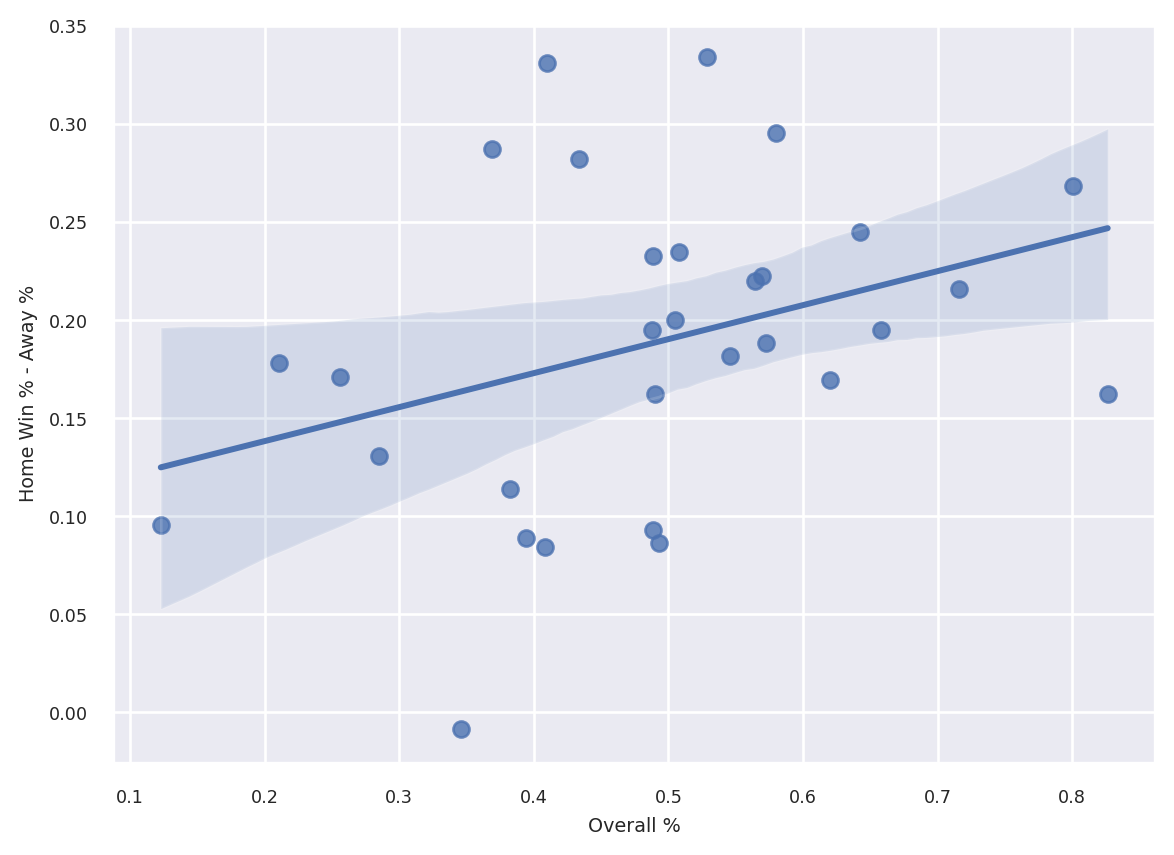
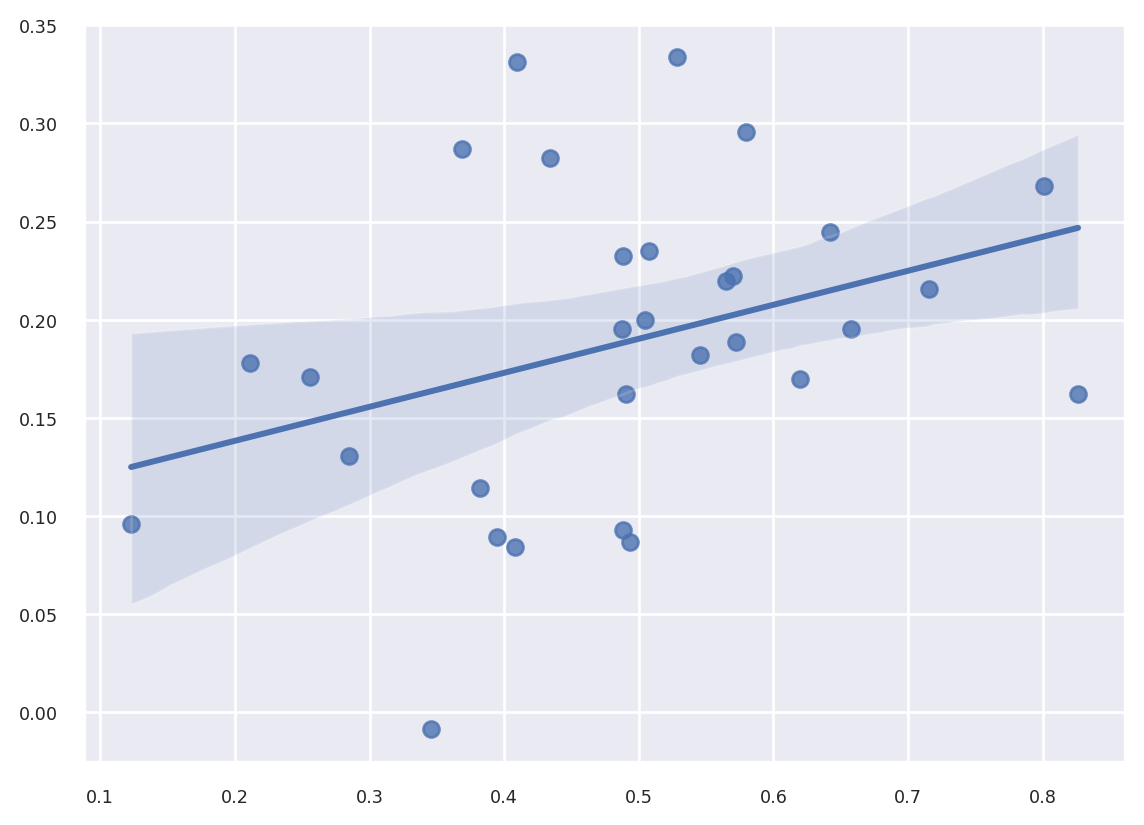
Built site for gh-pages

diff --git a/tidy.html b/tidy.html
@@ -845,7 +845,7 @@ Note
 <div class="sourceCode cell-code" id="cb11"><pre class="sourceCode python code-with-copy"><code class="sourceCode python"><span id="cb11-1"><a href="#cb11-1" aria-hidden="true" tabindex="-1"></a><span class="im">import</span> seaborn <span class="im">as</span> sns</span>
 <span id="cb11-2"><a href="#cb11-2" aria-hidden="true" tabindex="-1"></a>sns.set_theme(font_scale<span class="op">=</span><span class="fl">0.6</span>)</span>
 <span id="cb11-3"><a href="#cb11-3" aria-hidden="true" tabindex="-1"></a>sns.catplot(</span>
-<span id="cb11-4"><a href="#cb11-4" aria-hidden="true" tabindex="-1"></a>    tidy_pl.to_pandas(),</span>
+<span id="cb11-4"><a href="#cb11-4" aria-hidden="true" tabindex="-1"></a>    tidy_pl,</span>
 <span id="cb11-5"><a href="#cb11-5" aria-hidden="true" tabindex="-1"></a>    x<span class="op">=</span><span class="st">"variable"</span>,</span>
 <span id="cb11-6"><a href="#cb11-6" aria-hidden="true" tabindex="-1"></a>    y<span class="op">=</span><span class="st">"rest"</span>,</span>
 <span id="cb11-7"><a href="#cb11-7" aria-hidden="true" tabindex="-1"></a>    col<span class="op">=</span><span class="st">"team"</span>,</span>
@@ -854,7 +854,7 @@ Note
 <span id="cb11-10"><a href="#cb11-10" aria-hidden="true" tabindex="-1"></a>    height<span class="op">=</span><span class="fl">1.5</span>,</span>
 <span id="cb11-11"><a href="#cb11-11" aria-hidden="true" tabindex="-1"></a>)</span></code><button title="Copy to Clipboard" class="code-copy-button"><i class="bi"></i></button></pre></div>
 <div class="cell-output cell-output-display" data-execution_count="11">
-<pre><code>&lt;seaborn.axisgrid.FacetGrid at 0x7f331e88bf10&gt;</code></pre>
+<pre><code>&lt;seaborn.axisgrid.FacetGrid at 0x7fd14ed3fd90&gt;</code></pre>
 </div>
 <div class="cell-output cell-output-display">
 <p><img src="tidy_files/figure-html/cell-12-output-2.png" width="729" height="864"></p>
@@ -920,7 +920,7 @@ Note
 <span id="cb17-3"><a href="#cb17-3" aria-hidden="true" tabindex="-1"></a>sns.barplot(</span>
 <span id="cb17-4"><a href="#cb17-4" aria-hidden="true" tabindex="-1"></a>    x<span class="op">=</span><span class="st">"rest_spread"</span>,</span>
 <span id="cb17-5"><a href="#cb17-5" aria-hidden="true" tabindex="-1"></a>    y<span class="op">=</span><span class="st">"home_win"</span>,</span>
-<span id="cb17-6"><a href="#cb17-6" aria-hidden="true" tabindex="-1"></a>    data<span class="op">=</span>joined_pl.<span class="bu">filter</span>(pl.col(<span class="st">"rest_spread"</span>).is_between(<span class="op">-</span><span class="dv">3</span>, <span class="dv">3</span>, closed<span class="op">=</span><span class="st">"both"</span>)).to_pandas(),</span>
+<span id="cb17-6"><a href="#cb17-6" aria-hidden="true" tabindex="-1"></a>    data<span class="op">=</span>joined_pl.<span class="bu">filter</span>(pl.col(<span class="st">"rest_spread"</span>).is_between(<span class="op">-</span><span class="dv">3</span>, <span class="dv">3</span>, closed<span class="op">=</span><span class="st">"both"</span>)),</span>
 <span id="cb17-7"><a href="#cb17-7" aria-hidden="true" tabindex="-1"></a>    color<span class="op">=</span><span class="st">"#4c72b0"</span>,</span>
 <span id="cb17-8"><a href="#cb17-8" aria-hidden="true" tabindex="-1"></a>    ax<span class="op">=</span>ax,</span>
 <span id="cb17-9"><a href="#cb17-9" aria-hidden="true" tabindex="-1"></a>)</span></code><button title="Copy to Clipboard" class="code-copy-button"><i class="bi"></i></button></pre></div>
@@ -1257,14 +1257,14 @@ Name: rest, Length: 418, dtype: Float64</code></pre>
 <section id="some-visualisations" class="level2" data-number="4.7">
 <h2 data-number="4.7" class="anchored" data-anchor-id="some-visualisations"><span class="header-section-number">4.7</span> Some visualisations</h2>
 <div class="cell" data-execution_count="24">
-<div class="sourceCode cell-code" id="cb32"><pre class="sourceCode python code-with-copy"><code class="sourceCode python"><span id="cb32-1"><a href="#cb32-1" aria-hidden="true" tabindex="-1"></a>g <span class="op">=</span> sns.FacetGrid(wins_pl.to_pandas(), hue<span class="op">=</span><span class="st">"team"</span>, aspect<span class="op">=</span><span class="fl">0.8</span>, palette<span class="op">=</span>[<span class="st">"k"</span>], height<span class="op">=</span><span class="dv">5</span>)</span>
+<div class="sourceCode cell-code" id="cb32"><pre class="sourceCode python code-with-copy"><code class="sourceCode python"><span id="cb32-1"><a href="#cb32-1" aria-hidden="true" tabindex="-1"></a>g <span class="op">=</span> sns.FacetGrid(wins_pl, hue<span class="op">=</span><span class="st">"team"</span>, aspect<span class="op">=</span><span class="fl">0.8</span>, palette<span class="op">=</span>[<span class="st">"k"</span>], height<span class="op">=</span><span class="dv">5</span>)</span>
 <span id="cb32-2"><a href="#cb32-2" aria-hidden="true" tabindex="-1"></a>g.<span class="bu">map</span>(</span>
 <span id="cb32-3"><a href="#cb32-3" aria-hidden="true" tabindex="-1"></a>    sns.pointplot,</span>
 <span id="cb32-4"><a href="#cb32-4" aria-hidden="true" tabindex="-1"></a>    <span class="st">"is_home"</span>,</span>
 <span id="cb32-5"><a href="#cb32-5" aria-hidden="true" tabindex="-1"></a>    <span class="st">"win_pct"</span>,</span>
 <span id="cb32-6"><a href="#cb32-6" aria-hidden="true" tabindex="-1"></a>    order<span class="op">=</span>[<span class="st">"away_team"</span>, <span class="st">"home_team"</span>]).<span class="bu">set</span>(ylim<span class="op">=</span>(<span class="dv">0</span>, <span class="dv">1</span>))</span></code><button title="Copy to Clipboard" class="code-copy-button"><i class="bi"></i></button></pre></div>
 <div class="cell-output cell-output-display" data-execution_count="24">
-<pre><code>&lt;seaborn.axisgrid.FacetGrid at 0x7f3316733610&gt;</code></pre>
+<pre><code>&lt;seaborn.axisgrid.FacetGrid at 0x7fd136348790&gt;</code></pre>
 </div>
 <div class="cell-output cell-output-display">
 <p><img src="tidy_files/figure-html/cell-25-output-2.png" width="383" height="483"></p>
@@ -1272,7 +1272,7 @@ Name: rest, Length: 418, dtype: Float64</code></pre>
 </div>
 <div class="cell" data-execution_count="25">
 <div class="sourceCode cell-code" id="cb34"><pre class="sourceCode python code-with-copy"><code class="sourceCode python"><span id="cb34-1"><a href="#cb34-1" aria-hidden="true" tabindex="-1"></a>sns.catplot(</span>
-<span id="cb34-2"><a href="#cb34-2" aria-hidden="true" tabindex="-1"></a>    wins_pl.to_pandas(),</span>
+<span id="cb34-2"><a href="#cb34-2" aria-hidden="true" tabindex="-1"></a>    wins_pl,</span>
 <span id="cb34-3"><a href="#cb34-3" aria-hidden="true" tabindex="-1"></a>    x<span class="op">=</span><span class="st">"is_home"</span>,</span>
 <span id="cb34-4"><a href="#cb34-4" aria-hidden="true" tabindex="-1"></a>    y<span class="op">=</span><span class="st">"win_pct"</span>,</span>
 <span id="cb34-5"><a href="#cb34-5" aria-hidden="true" tabindex="-1"></a>    col<span class="op">=</span><span class="st">"team"</span>,</span>
@@ -1282,7 +1282,7 @@ Name: rest, Length: 418, dtype: Float64</code></pre>
 <span id="cb34-9"><a href="#cb34-9" aria-hidden="true" tabindex="-1"></a>    height<span class="op">=</span><span class="fl">1.5</span>,</span>
 <span id="cb34-10"><a href="#cb34-10" aria-hidden="true" tabindex="-1"></a>)</span></code><button title="Copy to Clipboard" class="code-copy-button"><i class="bi"></i></button></pre></div>
 <div class="cell-output cell-output-display" data-execution_count="25">
-<pre><code>&lt;seaborn.axisgrid.FacetGrid at 0x7f331679df10&gt;</code></pre>
+<pre><code>&lt;seaborn.axisgrid.FacetGrid at 0x7fd136126490&gt;</code></pre>
 </div>
 <div class="cell-output cell-output-display">
 <p><img src="tidy_files/figure-html/cell-26-output-2.png" width="862" height="651"></p>
@@ -1356,7 +1356,7 @@ Length: 30, dtype: float64</code></pre>
 <div class="tab-content">
 <div id="tabset-11-1" class="tab-pane active" role="tabpanel" aria-labelledby="tabset-11-1-tab">
 <div class="cell" data-execution_count="29">
-<div class="sourceCode cell-code" id="cb41"><pre class="sourceCode python code-with-copy"><code class="sourceCode python"><span id="cb41-1"><a href="#cb41-1" aria-hidden="true" tabindex="-1"></a>(</span>
+<div class="sourceCode cell-code" id="cb41"><pre class="sourceCode python code-with-copy"><code class="sourceCode python"><span id="cb41-1"><a href="#cb41-1" aria-hidden="true" tabindex="-1"></a>wins_to_plot_pl <span class="op">=</span> (</span>
 <span id="cb41-2"><a href="#cb41-2" aria-hidden="true" tabindex="-1"></a>    wins_pl.pivot(index<span class="op">=</span><span class="st">"team"</span>, columns<span class="op">=</span><span class="st">"is_home"</span>, values<span class="op">=</span><span class="st">"win_pct"</span>)</span>
 <span id="cb41-3"><a href="#cb41-3" aria-hidden="true" tabindex="-1"></a>    .with_columns(</span>
 <span id="cb41-4"><a href="#cb41-4" aria-hidden="true" tabindex="-1"></a>        [</span>
@@ -1364,27 +1364,26 @@ Length: 30, dtype: float64</code></pre>
 <span id="cb41-6"><a href="#cb41-6" aria-hidden="true" tabindex="-1"></a>            (pl.col(<span class="st">"home_team"</span>).alias(<span class="st">"Overall %"</span>) <span class="op">+</span> pl.col(<span class="st">"away_team"</span>)) <span class="op">/</span> <span class="dv">2</span>,</span>
 <span id="cb41-7"><a href="#cb41-7" aria-hidden="true" tabindex="-1"></a>        ]</span>
 <span id="cb41-8"><a href="#cb41-8" aria-hidden="true" tabindex="-1"></a>    )</span>
-<span id="cb41-9"><a href="#cb41-9" aria-hidden="true" tabindex="-1"></a>    .to_pandas()</span>
-<span id="cb41-10"><a href="#cb41-10" aria-hidden="true" tabindex="-1"></a>    .pipe((sns.regplot, <span class="st">"data"</span>), x<span class="op">=</span><span class="st">"Overall %"</span>, y<span class="op">=</span><span class="st">"Home Win % - Away %"</span>)</span>
-<span id="cb41-11"><a href="#cb41-11" aria-hidden="true" tabindex="-1"></a>)</span></code><button title="Copy to Clipboard" class="code-copy-button"><i class="bi"></i></button></pre></div>
+<span id="cb41-9"><a href="#cb41-9" aria-hidden="true" tabindex="-1"></a>)</span>
+<span id="cb41-10"><a href="#cb41-10" aria-hidden="true" tabindex="-1"></a>sns.regplot(data<span class="op">=</span>wins_to_plot_pl, x<span class="op">=</span><span class="st">'Overall %'</span>, y<span class="op">=</span><span class="st">'Home Win % - Away %'</span>)</span></code><button title="Copy to Clipboard" class="code-copy-button"><i class="bi"></i></button></pre></div>
 <div class="cell-output cell-output-display" data-execution_count="29">
-<pre><code>&lt;Axes: xlabel='Overall %', ylabel='Home Win % - Away %'&gt;</code></pre>
+<pre><code>&lt;Axes: &gt;</code></pre>
 </div>
 <div class="cell-output cell-output-display">
-<p><img src="tidy_files/figure-html/cell-30-output-2.png" width="587" height="428"></p>
+<p><img src="tidy_files/figure-html/cell-30-output-2.png" width="572" height="413"></p>
 </div>
 </div>
 </div>
 <div id="tabset-11-2" class="tab-pane" role="tabpanel" aria-labelledby="tabset-11-2-tab">
 <div class="cell" data-execution_count="30">
-<div class="sourceCode cell-code" id="cb43"><pre class="sourceCode python code-with-copy"><code class="sourceCode python"><span id="cb43-1"><a href="#cb43-1" aria-hidden="true" tabindex="-1"></a>(</span>
+<div class="sourceCode cell-code" id="cb43"><pre class="sourceCode python code-with-copy"><code class="sourceCode python"><span id="cb43-1"><a href="#cb43-1" aria-hidden="true" tabindex="-1"></a>wins_to_plot_pd <span class="op">=</span> (</span>
 <span id="cb43-2"><a href="#cb43-2" aria-hidden="true" tabindex="-1"></a>    wins_pd</span>
 <span id="cb43-3"><a href="#cb43-3" aria-hidden="true" tabindex="-1"></a>    [<span class="st">"win_pct"</span>]</span>
 <span id="cb43-4"><a href="#cb43-4" aria-hidden="true" tabindex="-1"></a>    .unstack()</span>
 <span id="cb43-5"><a href="#cb43-5" aria-hidden="true" tabindex="-1"></a>    .assign(<span class="op">**</span>{<span class="st">'Home Win % - Away %'</span>: <span class="kw">lambda</span> x: x[<span class="st">"home_team"</span>] <span class="op">-</span> x[<span class="st">"away_team"</span>],</span>
 <span id="cb43-6"><a href="#cb43-6" aria-hidden="true" tabindex="-1"></a>               <span class="st">'Overall %'</span>: <span class="kw">lambda</span> x: (x[<span class="st">"home_team"</span>] <span class="op">+</span> x[<span class="st">"away_team"</span>]) <span class="op">/</span> <span class="dv">2</span>})</span>
-<span id="cb43-7"><a href="#cb43-7" aria-hidden="true" tabindex="-1"></a>     .pipe((sns.regplot, <span class="st">'data'</span>), x<span class="op">=</span><span class="st">'Overall %'</span>, y<span class="op">=</span><span class="st">'Home Win % - Away %'</span>)</span>
-<span id="cb43-8"><a href="#cb43-8" aria-hidden="true" tabindex="-1"></a>)</span></code><button title="Copy to Clipboard" class="code-copy-button"><i class="bi"></i></button></pre></div>
+<span id="cb43-7"><a href="#cb43-7" aria-hidden="true" tabindex="-1"></a>)</span>
+<span id="cb43-8"><a href="#cb43-8" aria-hidden="true" tabindex="-1"></a>sns.regplot(data<span class="op">=</span>wins_to_plot_pd, x<span class="op">=</span><span class="st">'Overall %'</span>, y<span class="op">=</span><span class="st">'Home Win % - Away %'</span>)</span></code><button title="Copy to Clipboard" class="code-copy-button"><i class="bi"></i></button></pre></div>
 <div class="cell-output cell-output-display" data-execution_count="30">
 <pre><code>&lt;Axes: xlabel='Overall %', ylabel='Home Win % - Away %'&gt;</code></pre>
 </div>
@@ -1594,10 +1593,10 @@ Length: 30, dtype: float64</code></pre>
   <th>Method:</th>                 <td>MLE</td>       <th>  Df Model:          </th>  <td>     4</td>  
 </tr>
 <tr>
-  <th>Date:</th>            <td>Thu, 19 Oct 2023</td> <th>  Pseudo R-squ.:     </th>  <td>0.1777</td>  
+  <th>Date:</th>            <td>Fri, 03 Nov 2023</td> <th>  Pseudo R-squ.:     </th>  <td>0.1777</td>  
 </tr>
 <tr>
-  <th>Time:</th>                <td>17:04:38</td>     <th>  Log-Likelihood:    </th> <td> -720.68</td> 
+  <th>Time:</th>                <td>01:52:21</td>     <th>  Log-Likelihood:    </th> <td> -720.68</td> 
 </tr>
 <tr>
   <th>converged:</th>             <td>True</td>       <th>  LL-Null:           </th> <td> -876.38</td> 

diff --git a/performance.html b/performance.html
@@ -739,8 +739,8 @@ Tip
 <span id="cb7-21"><a href="#cb7-21" aria-hidden="true" tabindex="-1"></a>    .collect()</span>
 <span id="cb7-22"><a href="#cb7-22" aria-hidden="true" tabindex="-1"></a>)</span></code><button title="Copy to Clipboard" class="code-copy-button"><i class="bi"></i></button></pre></div>
 <div class="cell-output cell-output-stdout">
-<pre><code>CPU times: user 119 ms, sys: 28.8 ms, total: 148 ms
-Wall time: 34.1 ms</code></pre>
+<pre><code>CPU times: user 82.6 ms, sys: 29.6 ms, total: 112 ms
+Wall time: 34.8 ms</code></pre>
 </div>
 </div>
 </div>
@@ -762,8 +762,8 @@ Wall time: 34.1 ms</code></pre>
 <span id="cb9-14"><a href="#cb9-14" aria-hidden="true" tabindex="-1"></a>    .rename(columns<span class="op">=</span>{<span class="st">"↓OVA"</span>: <span class="st">"OVA"</span>})</span>
 <span id="cb9-15"><a href="#cb9-15" aria-hidden="true" tabindex="-1"></a>)</span></code><button title="Copy to Clipboard" class="code-copy-button"><i class="bi"></i></button></pre></div>
 <div class="cell-output cell-output-stdout">
-<pre><code>CPU times: user 6.16 s, sys: 229 ms, total: 6.39 s
-Wall time: 6.39 s</code></pre>
+<pre><code>CPU times: user 6.53 s, sys: 402 ms, total: 6.93 s
+Wall time: 6.93 s</code></pre>
 </div>
 </div>
 </div>
@@ -1027,7 +1027,7 @@ Wall time: 6.39 s</code></pre>
 <span id="cb16-8"><a href="#cb16-8" aria-hidden="true" tabindex="-1"></a>    )</span>
 <span id="cb16-9"><a href="#cb16-9" aria-hidden="true" tabindex="-1"></a>).collect()</span></code><button title="Copy to Clipboard" class="code-copy-button"><i class="bi"></i></button></pre></div>
 <div class="cell-output cell-output-stdout">
-<pre><code>3.97 s ± 43.4 ms per loop (mean ± std. dev. of 7 runs, 1 loop each)</code></pre>
+<pre><code>4.42 s ± 261 ms per loop (mean ± std. dev. of 7 runs, 1 loop each)</code></pre>
 </div>
 </div>
 <p>On my machine the NumPy version tends to be 5-20% faster than the pure Polars version:</p>
@@ -1042,7 +1042,7 @@ Wall time: 6.39 s</code></pre>
 <span id="cb18-8"><a href="#cb18-8" aria-hidden="true" tabindex="-1"></a>    )</span>
 <span id="cb18-9"><a href="#cb18-9" aria-hidden="true" tabindex="-1"></a>).collect()</span></code><button title="Copy to Clipboard" class="code-copy-button"><i class="bi"></i></button></pre></div>
 <div class="cell-output cell-output-stdout">
-<pre><code>4.97 s ± 140 ms per loop (mean ± std. dev. of 7 runs, 1 loop each)</code></pre>
+<pre><code>5.21 s ± 75.6 ms per loop (mean ± std. dev. of 7 runs, 1 loop each)</code></pre>
 </div>
 </div>
 <p>This may not be a huge performance difference, but it at least means you don’t sacrifice speed when relying on NumPy. There are some <a href="https://pola-rs.github.io/polars-book/user-guide/howcani/interop/numpy.html">gotchas</a> though so watch out for those.</p>
@@ -1057,7 +1057,7 @@ Wall time: 6.39 s</code></pre>
 <span id="cb20-7"><a href="#cb20-7" aria-hidden="true" tabindex="-1"></a>    collected[<span class="st">"LONGITUDE_right"</span>].to_numpy()</span>
 <span id="cb20-8"><a href="#cb20-8" aria-hidden="true" tabindex="-1"></a>)</span></code><button title="Copy to Clipboard" class="code-copy-button"><i class="bi"></i></button></pre></div>
 <div class="cell-output cell-output-stdout">
-<pre><code>5.54 s ± 58.5 ms per loop (mean ± std. dev. of 7 runs, 1 loop each)</code></pre>
+<pre><code>5.63 s ± 33.8 ms per loop (mean ± std. dev. of 7 runs, 1 loop each)</code></pre>
 </div>
 </div>
 </section>
@@ -1092,7 +1092,7 @@ Wall time: 6.39 s</code></pre>
 <div class="cell" data-execution_count="18">
 <div class="sourceCode cell-code" id="cb23"><pre class="sourceCode python code-with-copy"><code class="sourceCode python"><span id="cb23-1"><a href="#cb23-1" aria-hidden="true" tabindex="-1"></a><span class="op">%</span>timeit rand_df_pl.select(polars_transform())</span></code><button title="Copy to Clipboard" class="code-copy-button"><i class="bi"></i></button></pre></div>
 <div class="cell-output cell-output-stdout">
-<pre><code>2.31 s ± 215 ms per loop (mean ± std. dev. of 7 runs, 1 loop each)</code></pre>
+<pre><code>2.2 s ± 153 ms per loop (mean ± std. dev. of 7 runs, 1 loop each)</code></pre>
 </div>
 </div>
 </div>
@@ -1100,15 +1100,15 @@ Wall time: 6.39 s</code></pre>
 <div class="cell" data-execution_count="19">
 <div class="sourceCode cell-code" id="cb25"><pre class="sourceCode python code-with-copy"><code class="sourceCode python"><span id="cb25-1"><a href="#cb25-1" aria-hidden="true" tabindex="-1"></a><span class="op">%</span>timeit pandas_transform(rand_df_pd)</span></code><button title="Copy to Clipboard" class="code-copy-button"><i class="bi"></i></button></pre></div>
 <div class="cell-output cell-output-stderr">
-<pre><code>/tmp/ipykernel_30129/1003544873.py:9: FutureWarning: The provided callable &lt;function mean at 0x7fef602a4a40&gt; is currently using SeriesGroupBy.mean. In a future version of pandas, the provided callable will be used directly. To keep current behavior pass the string "mean" instead.
+<pre><code>/tmp/ipykernel_10730/1003544873.py:9: FutureWarning: The provided callable &lt;function mean at 0x7f99d02a0a40&gt; is currently using SeriesGroupBy.mean. In a future version of pandas, the provided callable will be used directly. To keep current behavior pass the string "mean" instead.
   return (v - g.transform(np.mean)) / g.transform(np.std)</code></pre>
 </div>
 <div class="cell-output cell-output-stderr">
-<pre><code>/tmp/ipykernel_30129/1003544873.py:9: FutureWarning: The provided callable &lt;function std at 0x7fef602a4c20&gt; is currently using SeriesGroupBy.std. In a future version of pandas, the provided callable will be used directly. To keep current behavior pass the string "std" instead.
+<pre><code>/tmp/ipykernel_10730/1003544873.py:9: FutureWarning: The provided callable &lt;function std at 0x7f99d02a0c20&gt; is currently using SeriesGroupBy.std. In a future version of pandas, the provided callable will be used directly. To keep current behavior pass the string "std" instead.
   return (v - g.transform(np.mean)) / g.transform(np.std)</code></pre>
 </div>
 <div class="cell-output cell-output-stdout">
-<pre><code>1.67 s ± 50.1 ms per loop (mean ± std. dev. of 7 runs, 1 loop each)</code></pre>
+<pre><code>1.67 s ± 10.5 ms per loop (mean ± std. dev. of 7 runs, 1 loop each)</code></pre>
 </div>
 </div>
 </div>

diff --git a/method_chaining.html b/method_chaining.html
@@ -611,7 +611,7 @@ Note
 </div>
 </div>
 <div class="callout-body-container callout-body">
-<p>Polars works fine with Matplotlib, Plotly, and Altair, but it doesn’t work with Seaborn, nor does it have its own <code>.plot</code> method. The latter two are very convenient for exploratory data analysis, so for these examples we’ll just use <code>to_pandas</code> followed by <code>plot</code> or a Seaborn function after doing all the data manipulation in Polars.</p>
+<p>Polars works fine with Matplotlib, Plotly, Seaborn, and Altair, but it doesn’t have its own <code>.plot</code> method. The <code>.plot</code> method in Pandas is pretty convenient for exploratory data analysis, so for some these examples we’ll just use <code>.to_pandas()</code> followed by <code>.plot()</code> function after doing all the data manipulation in Polars.</p>
 </div>
 </div>
 <div class="panel-tabset">
@@ -690,7 +690,7 @@ Note
 <span id="cb11-27"><a href="#cb11-27" aria-hidden="true" tabindex="-1"></a>    .plot()</span>
 <span id="cb11-28"><a href="#cb11-28" aria-hidden="true" tabindex="-1"></a>)</span></code><button title="Copy to Clipboard" class="code-copy-button"><i class="bi"></i></button></pre></div>
 <div class="cell-output cell-output-stderr">
-<pre><code>/tmp/ipykernel_30020/4223446110.py:17: FutureWarning: The default of observed=False is deprecated and will be changed to True in a future version of pandas. Pass observed=False to retain current behavior or observed=True to adopt the future default and silence this warning.
+<pre><code>/tmp/ipykernel_10556/4223446110.py:17: FutureWarning: The default of observed=False is deprecated and will be changed to True in a future version of pandas. Pass observed=False to retain current behavior or observed=True to adopt the future default and silence this warning.
   .groupby(["IATA_CODE_Reporting_Airline", pd.Grouper(freq="H")])[</code></pre>
 </div>
 <div class="cell-output cell-output-display" data-execution_count="10">
@@ -741,7 +741,7 @@ Note
 <span id="cb14-19"><a href="#cb14-19" aria-hidden="true" tabindex="-1"></a>)</span>
 <span id="cb14-20"><a href="#cb14-20" aria-hidden="true" tabindex="-1"></a></span>
 <span id="cb14-21"><a href="#cb14-21" aria-hidden="true" tabindex="-1"></a>fig, ax <span class="op">=</span> plt.subplots(figsize<span class="op">=</span>(<span class="dv">10</span>, <span class="dv">5</span>))</span>
-<span id="cb14-22"><a href="#cb14-22" aria-hidden="true" tabindex="-1"></a>sns.boxplot(x<span class="op">=</span><span class="st">"turn"</span>, y<span class="op">=</span><span class="st">"DepDelay"</span>, data<span class="op">=</span>flights_pl.to_pandas(), ax<span class="op">=</span>ax)</span>
+<span id="cb14-22"><a href="#cb14-22" aria-hidden="true" tabindex="-1"></a>sns.boxplot(x<span class="op">=</span><span class="st">"turn"</span>, y<span class="op">=</span><span class="st">"DepDelay"</span>, data<span class="op">=</span>flights_pl, ax<span class="op">=</span>ax)</span>
 <span id="cb14-23"><a href="#cb14-23" aria-hidden="true" tabindex="-1"></a>ax.set_ylim(<span class="op">-</span><span class="dv">50</span>, <span class="dv">50</span>)</span></code><button title="Copy to Clipboard" class="code-copy-button"><i class="bi"></i></button></pre></div>
 <div class="cell-output cell-output-display" data-execution_count="11">
 <pre><code>(-50.0, 50.0)</code></pre>
@@ -773,7 +773,7 @@ Note
 <span id="cb16-18"><a href="#cb16-18" aria-hidden="true" tabindex="-1"></a>sns.boxplot(x<span class="op">=</span><span class="st">"turn"</span>, y<span class="op">=</span><span class="st">"DepDelay"</span>, data<span class="op">=</span>flights_pd, ax<span class="op">=</span>ax)</span>
 <span id="cb16-19"><a href="#cb16-19" aria-hidden="true" tabindex="-1"></a>ax.set_ylim(<span class="op">-</span><span class="dv">50</span>, <span class="dv">50</span>)</span></code><button title="Copy to Clipboard" class="code-copy-button"><i class="bi"></i></button></pre></div>
 <div class="cell-output cell-output-stderr">
-<pre><code>/tmp/ipykernel_30020/2848021590.py:12: FutureWarning: The default of observed=False is deprecated and will be changed to True in a future version of pandas. Pass observed=False to retain current behavior or observed=True to adopt the future default and silence this warning.
+<pre><code>/tmp/ipykernel_10556/2848021590.py:12: FutureWarning: The default of observed=False is deprecated and will be changed to True in a future version of pandas. Pass observed=False to retain current behavior or observed=True to adopt the future default and silence this warning.
   x.groupby(["FlightDate", "Tail_Number"])</code></pre>
 </div>
 <div class="cell-output cell-output-display" data-execution_count="12">

diff --git a/scaling.html b/scaling.html
@@ -497,7 +497,7 @@ Note
 <span id="cb7-21"><a href="#cb7-21" aria-hidden="true" tabindex="-1"></a>    comm_subplan_elim<span class="op">=</span><span class="va">False</span>, <span class="co"># cannot use CSE with streaming</span></span>
 <span id="cb7-22"><a href="#cb7-22" aria-hidden="true" tabindex="-1"></a>)</span></code><button title="Copy to Clipboard" class="code-copy-button"><i class="bi"></i></button></pre></div>
 <div class="cell-output cell-output-stdout">
-<pre><code>CPU times: user 11.8 s, sys: 2.44 s, total: 14.3 s
+<pre><code>CPU times: user 11.8 s, sys: 2.37 s, total: 14.2 s
 Wall time: 4.77 s</code></pre>
 </div>
 </div>
@@ -523,8 +523,8 @@ Wall time: 4.77 s</code></pre>
 <span id="cb9-17"><a href="#cb9-17" aria-hidden="true" tabindex="-1"></a>    avg_transaction_lazy_dd, total_by_employer_lazy_dd, avg_by_occupation_lazy_dd</span>
 <span id="cb9-18"><a href="#cb9-18" aria-hidden="true" tabindex="-1"></a>)</span></code><button title="Copy to Clipboard" class="code-copy-button"><i class="bi"></i></button></pre></div>
 <div class="cell-output cell-output-stdout">
-<pre><code>CPU times: user 22.6 s, sys: 3.46 s, total: 26.1 s
-Wall time: 15.7 s</code></pre>
+<pre><code>CPU times: user 22.4 s, sys: 3.28 s, total: 25.7 s
+Wall time: 15.3 s</code></pre>
 </div>
 </div>
 </div>
@@ -620,7 +620,7 @@ Name: TRANSACTION_AMT, Length: 10, dtype: int32</code></pre>
   white-space: pre-wrap;
 }
 </style>
-<small>shape: (10, 2)</small><table class="dataframe table table-sm table-striped"><thead><tr><th>OCCUPATION</th><th>TRANSACTION_AMT</th></tr><tr><td>cat</td><td>f64</td></tr></thead><tbody><tr><td>"CHAIRMAN CEO &amp;…</td><td>1.0233e6</td></tr><tr><td>"PAULSON AND CO…</td><td>1e6</td></tr><tr><td>…</td><td>…</td></tr><tr><td>"OWNER, FOUNDER…</td><td>500000.0</td></tr><tr><td>"MOORE CAPITAL …</td><td>500000.0</td></tr></tbody></table></div>
+<small>shape: (10, 2)</small><table class="dataframe table table-sm table-striped"><thead><tr><th>OCCUPATION</th><th>TRANSACTION_AMT</th></tr><tr><td>cat</td><td>f64</td></tr></thead><tbody><tr><td>"CHAIRMAN CEO &amp;…</td><td>1.0233e6</td></tr><tr><td>"PAULSON AND CO…</td><td>1e6</td></tr><tr><td>…</td><td>…</td></tr><tr><td>"PERRY HOMES"</td><td>500000.0</td></tr><tr><td>"CHIEF EXECUTIV…</td><td>500000.0</td></tr></tbody></table></div>
 </div>
 </div>
 </div>

diff --git a/indexing.html b/indexing.html
@@ -354,7 +354,7 @@ Tip
 <span id="cb3-3"><a href="#cb3-3" aria-hidden="true" tabindex="-1"></a>df_pd <span class="op">=</span> pd.read_csv(extracted)</span>
 <span id="cb3-4"><a href="#cb3-4" aria-hidden="true" tabindex="-1"></a>df_pd</span></code><button title="Copy to Clipboard" class="code-copy-button"><i class="bi"></i></button></pre></div>
 <div class="cell-output cell-output-stderr">
-<pre><code>/tmp/ipykernel_29955/2805799744.py:3: DtypeWarning: Columns (76,77,84) have mixed types. Specify dtype option on import or set low_memory=False.
+<pre><code>/tmp/ipykernel_10491/2805799744.py:3: DtypeWarning: Columns (76,77,84) have mixed types. Specify dtype option on import or set low_memory=False.
   df_pd = pd.read_csv(extracted)</code></pre>
 </div>
 <div class="cell-output cell-output-display" data-execution_count="3">
@@ -814,7 +814,7 @@ Tip
 <span id="cb14-2"><a href="#cb14-2" aria-hidden="true" tabindex="-1"></a>f[f[<span class="st">'a'</span>] <span class="op">&lt;=</span> <span class="dv">3</span>][<span class="st">'b'</span>] <span class="op">=</span> f[<span class="st">'b'</span>] <span class="op">//</span> <span class="dv">10</span></span>
 <span id="cb14-3"><a href="#cb14-3" aria-hidden="true" tabindex="-1"></a>f</span></code><button title="Copy to Clipboard" class="code-copy-button"><i class="bi"></i></button></pre></div>
 <div class="cell-output cell-output-stderr">
-<pre><code>/tmp/ipykernel_29955/1317853993.py:2: SettingWithCopyWarning: 
+<pre><code>/tmp/ipykernel_10491/1317853993.py:2: SettingWithCopyWarning: 
 A value is trying to be set on a copy of a slice from a DataFrame.
 Try using .loc[row_indexer,col_indexer] = value instead
 
